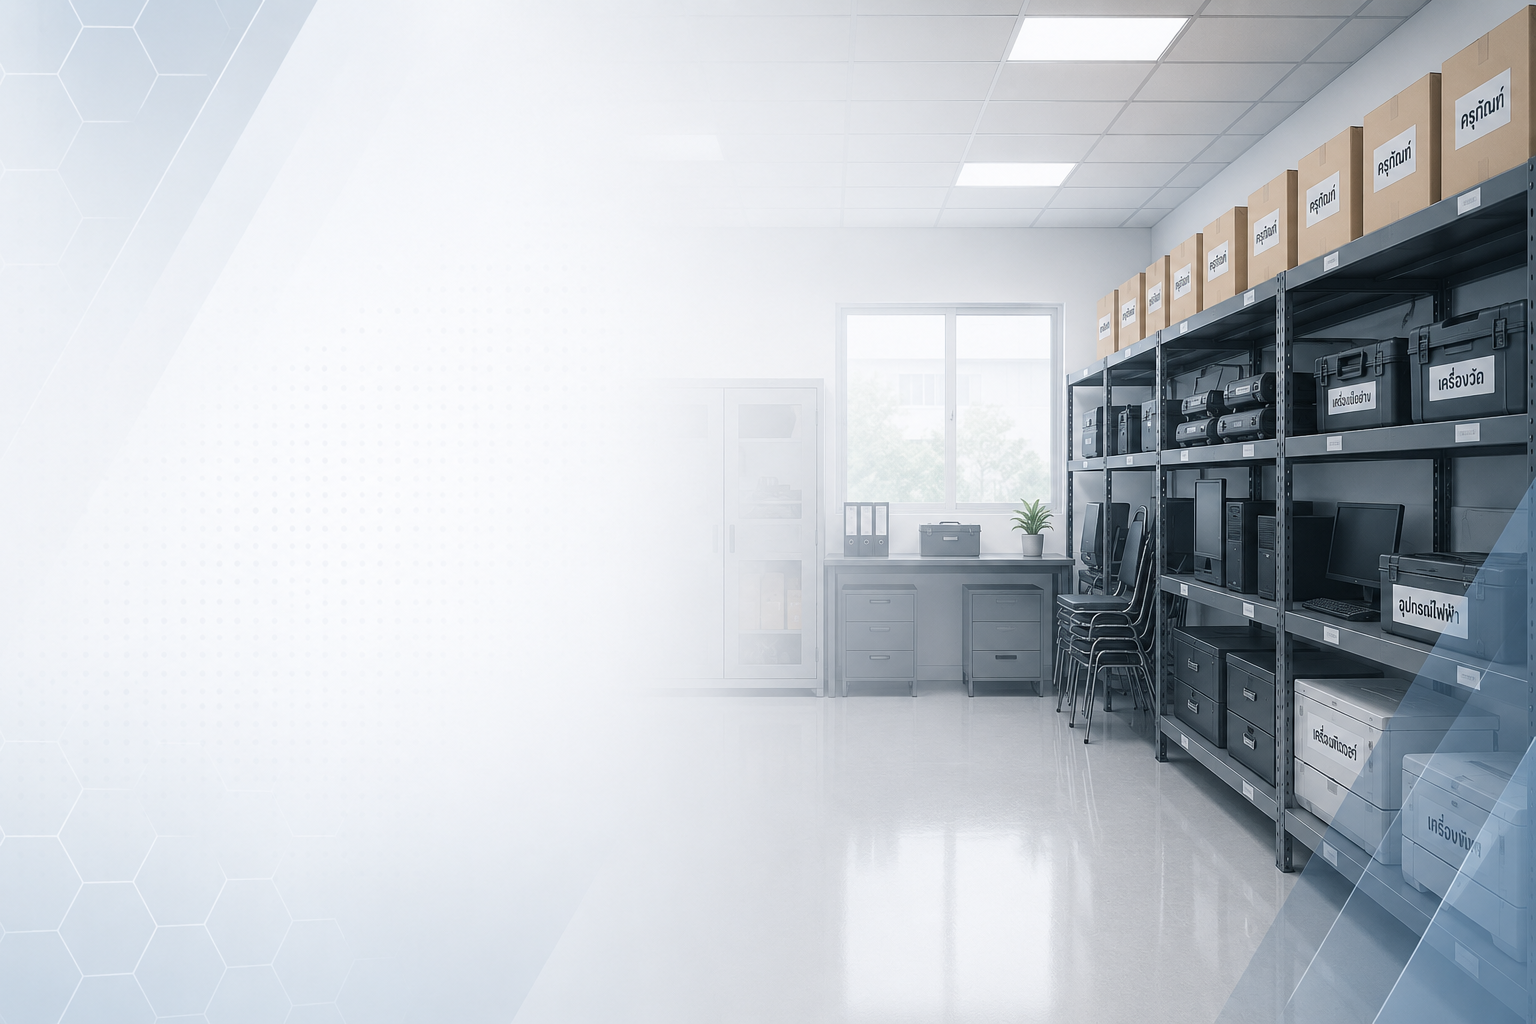
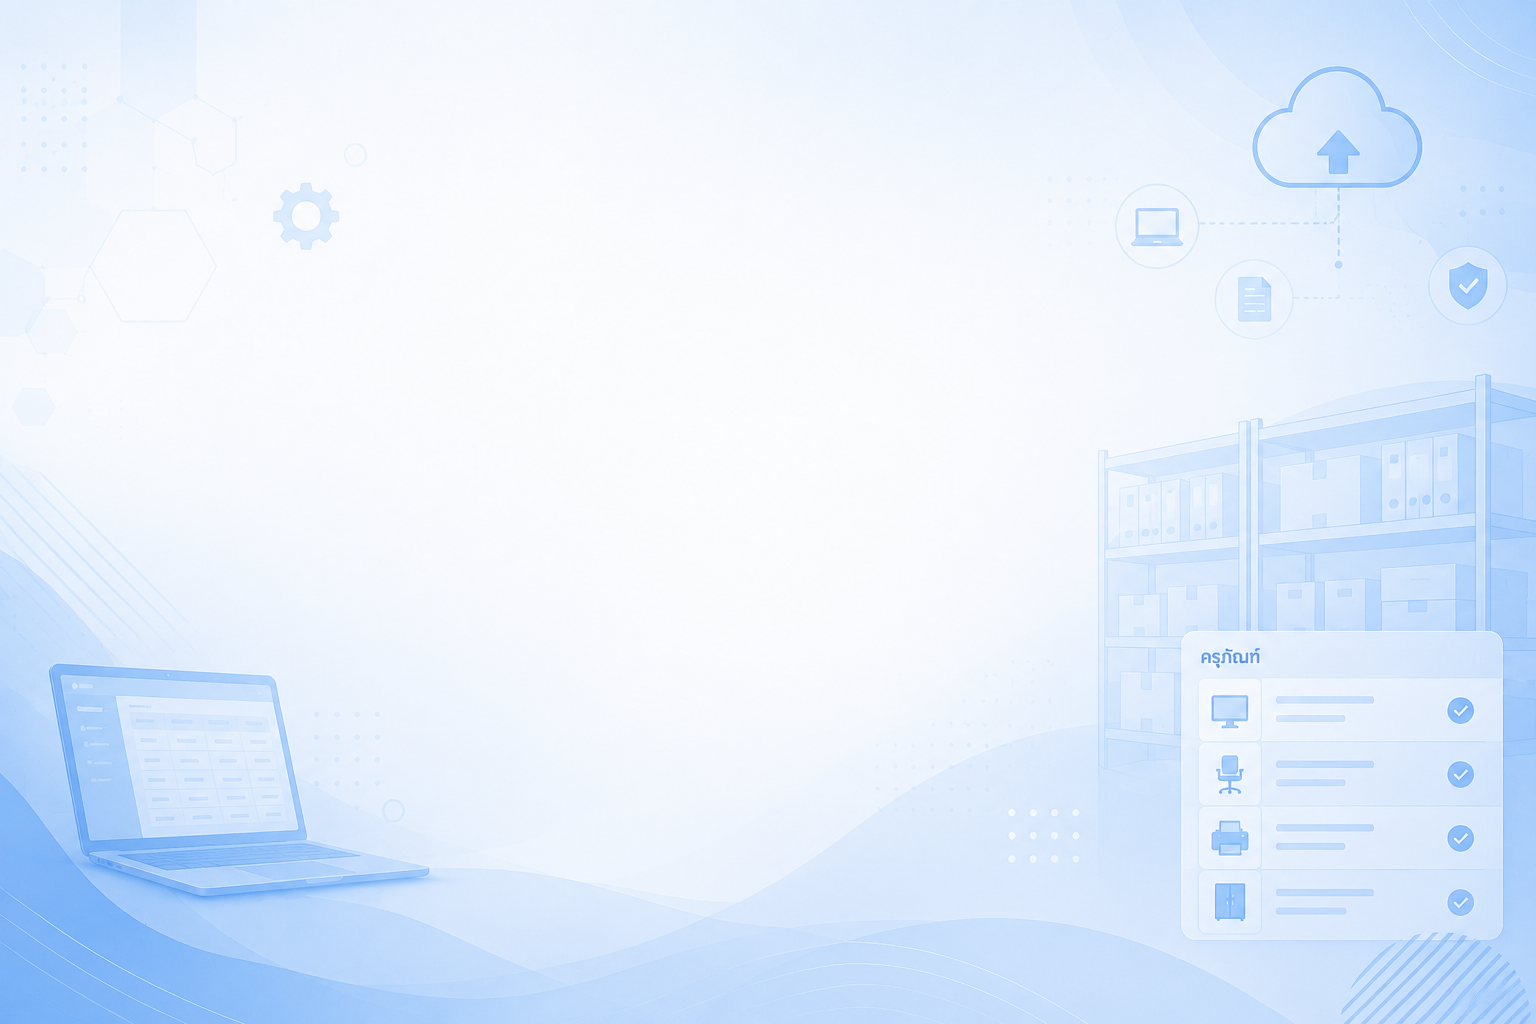
Update header background and status cards

diff --git a/style.css b/style.css
@@ -52,7 +52,7 @@ body {
 
 header {
   background:
-    linear-gradient(90deg, rgba(255, 255, 255, .96), rgba(255, 247, 219, .88) 44%, rgba(255, 247, 219, .42)),
+    linear-gradient(90deg, rgba(255, 255, 255, .92), rgba(239, 247, 255, .82) 46%, rgba(219, 236, 255, .42)),
     url("assets/header-bg.png") center right / cover no-repeat;
   padding: 18px 40px;
   display: flex;
@@ -131,6 +131,45 @@ button:hover {
 .logout-btn {
   background: #dc2626;
   color: white;
+  display: none;
+}
+
+.header-btns {
+  display: flex;
+  align-items: center;
+  gap: 10px;
+}
+
+#loginBtn,
+#logoutBtn {
+  width: 46px;
+  height: 46px;
+  min-height: 46px;
+  padding: 0;
+  border-radius: 50%;
+  font-size: 0;
+  line-height: 1;
+  display: inline-flex;
+  align-items: center;
+  justify-content: center;
+  overflow: hidden;
+}
+
+#loginBtn::before,
+#logoutBtn::before {
+  font-size: 18px;
+  line-height: 1;
+}
+
+#loginBtn::before {
+  content: "🔐";
+}
+
+#logoutBtn::before {
+  content: "🚪";
+}
+
+#logoutBtn {
   display: none;
 }
 
@@ -252,15 +291,20 @@ select:focus {
 }
 
 .status-grid-dynamic {
-  grid-template-columns: repeat(auto-fit, minmax(170px, 1fr));
+  grid-template-columns: repeat(2, minmax(0, 1fr));
+}
+
+.status-grid-dynamic .status-card.total {
+  grid-column: 1 / -1;
 }
 
 .status-card {
   width: 100%;
-  background: white;
-  border-radius: 22px;
+  background: linear-gradient(135deg, #ffffff, #f8fbff);
+  border-radius: 8px;
   border: 0;
-  padding: 20px;
+  min-height: 124px;
+  padding: 18px;
   text-align: left;
   box-shadow: 0 8px 25px rgba(0, 0, 0, .06);
   animation: fadeUp .7s ease both, glowPulse 3s ease-in-out infinite;
@@ -272,8 +316,20 @@ select:focus {
 }
 
 .status-card.active {
-  outline: 3px solid rgba(37, 99, 235, .22);
-  background: #f8fbff;
+  outline: 3px solid rgba(37, 99, 235, .28);
+  background:
+    linear-gradient(135deg, rgba(219, 234, 254, .98), rgba(255, 255, 255, .96)),
+    #f8fbff;
+  box-shadow: 0 16px 36px rgba(37, 99, 235, .18);
+  transform: translateY(-4px);
+}
+
+.status-card.active h3 {
+  color: #1d4ed8;
+}
+
+.status-card.active span {
+  color: #1e3a8a;
 }
 
 .status-card h3 {
@@ -596,7 +652,7 @@ td {
 @media (max-width: 768px) {
   header {
     background:
-      linear-gradient(180deg, rgba(255, 255, 255, .95), rgba(255, 247, 219, .86)),
+      linear-gradient(180deg, rgba(255, 255, 255, .95), rgba(239, 247, 255, .88)),
       url("assets/header-bg.png") center right / cover no-repeat;
     flex-direction: column;
     gap: 18px;
@@ -648,6 +704,10 @@ td {
 
   #logoutBtn::before {
     content: "🚪";
+  }
+
+  #logoutBtn {
+    display: none;
   }
 
   .grid {

diff --git a/script.js b/script.js
@@ -230,7 +230,7 @@ function login() {
     adminForm.style.display = "none";
     openAssetFormBtn.style.display = "inline-flex";
     loginBtn.style.display = "none";
-    logoutBtn.style.display = "inline-block";
+    logoutBtn.style.display = "inline-flex";
     closeLogin();
     render();
     alert("เข้าสู่ระบบสำเร็จ");
@@ -253,8 +253,8 @@ function resetFormValues() {
 function logout() {
   isAdmin = false;
   adminForm.style.display = "none";
-  openAssetFormBtn.style.display = "inline-flex";
-  loginBtn.style.display = "inline-block";
+  openAssetFormBtn.style.display = "none";
+  loginBtn.style.display = "inline-flex";
   logoutBtn.style.display = "none";
   user.value = "";
   pass.value = "";